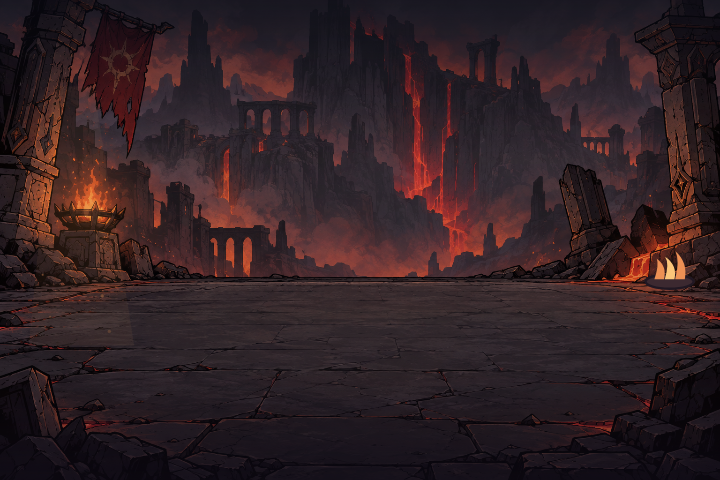
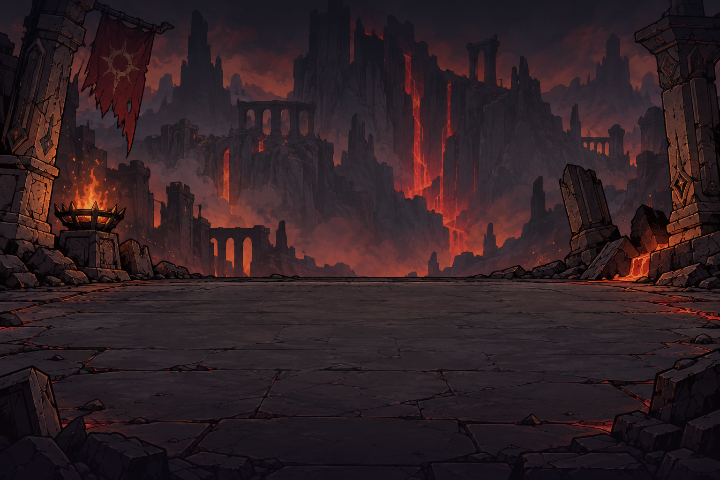
fix: 배경 추가 조명과 움직이는 소품 제거

Changed region(s): [[0.0611, 0.4062, 0.1833, 0.5625], [0.8861, 0.5312, 0.9778, 0.625]]

diff --git a/arena-environment.js b/arena-environment.js
@@ -1,87 +1,18 @@
-/* 배경 시간은 전투 시계와 함께 흐르고, 주변 소품만 작은 진폭으로 움직입니다. */
+/* 페이즈별 정적 원화와 배경 전환만 렌더링합니다. */
 const ARENA_THEMES = [
-  {id:'meadow',name:'황혼의 초원',light:'#ffd18a',accent:'#82dcb6',kind:'leaves',left:[.135,.28],right:[.94,.46]},
-  {id:'mine',name:'잿빛 폐광',light:'#ffbd72',accent:'#8fc8f1',kind:'dust',left:[.115,.30],right:[.93,.43]},
-  {id:'ruins',name:'화산 유적',light:'#ff9d52',accent:'#fa7246',kind:'embers',left:[.12,.44],right:[.93,.55]},
-  {id:'citadel',name:'화염 성채',light:'#ffc16c',accent:'#fb8345',kind:'embers',left:[.09,.385],right:[.92,.38]},
-  {id:'void',name:'공허의 경계',light:'#bca1ff',accent:'#79d9eb',kind:'motes',left:[.07,.35],right:[.945,.42]}
+  {id:'meadow',name:'황혼의 초원'},
+  {id:'mine',name:'잿빛 폐광'},
+  {id:'ruins',name:'화산 유적'},
+  {id:'citadel',name:'화염 성채'},
+  {id:'void',name:'공허의 경계'}
 ];
 function getArenaTheme(stage) {
   const index=Math.max(0,Math.ceil(Math.max(1,Number(stage)||1)/5)-1);
   return ARENA_THEMES[Math.min(4,index)];
 }
-function arenaGlow(ctx,x,y,r,color,alpha) {
-  ctx.save();ctx.globalAlpha*=alpha;
-  const gradient=ctx.createRadialGradient(x,y,0,x,y,r);
-  gradient.addColorStop(0,color);gradient.addColorStop(.25,color+'a0');gradient.addColorStop(1,color+'00');
-  ctx.fillStyle=gradient;ctx.fillRect(x-r,y-r,r*2,r*2);ctx.restore();
-}
-function drawArenaAmbient(ctx,width,height,theme,time,reduced=false,reaction=0) {
-  const t=reduced?0:time,unit=Math.min(width,height)/600;
-  const sway=Math.sin(t*.73)*.035;
-  const flicker=.76+Math.sin(t*2.3)*.09+Math.sin(t*5.7+1.2)*.035;
-  const left={x:width*theme.left[0],y:height*theme.left[1]},right={x:width*theme.right[0],y:height*theme.right[1]};
-  arenaGlow(ctx,left.x,left.y,110*unit,theme.light,.19*flicker+reaction*.1);
-  arenaGlow(ctx,right.x,right.y,95*unit,theme.accent,.12*(.9+Math.sin(t*1.2+.8)*.1));
-  // 넓은 빛기둥은 가장자리에서만 드리워 중앙 시전·체력 신호를 가리지 않습니다.
-  ctx.save();ctx.globalAlpha*=.055;ctx.fillStyle=theme.light;
-  ctx.beginPath();ctx.moveTo(width*.075,height*.18);ctx.lineTo(width*.13,height*.18);
-  ctx.lineTo(width*(.18+sway*.2),height*.72);ctx.lineTo(width*.04,height*.72);ctx.closePath();ctx.fill();ctx.restore();
-  // 원화 속 광원의 위치에 반짝임을 겹칩니다. 별도 등불 몸체를 중복 배치하지 않습니다.
-  ctx.save();ctx.translate(left.x,left.y);ctx.scale(unit,unit);
-  ctx.globalAlpha*=.23*flicker+reaction*.15;ctx.fillStyle=theme.light;
-  ctx.beginPath();ctx.ellipse(0,-2,4+Math.sin(t*3.1)*.5,8+Math.sin(t*4.7)*1.4,sway,0,Math.PI*2);ctx.fill();ctx.restore();
-  ctx.save();ctx.translate(right.x,height*.57);ctx.scale(unit,unit);
-  ctx.strokeStyle='#201722';ctx.lineWidth=3;
-  if(theme.id==='meadow') {
-    for(let i=0;i<4;i++) {
-      const angle=Math.sin(t*.65+i*.8)*.08;
-      ctx.save();ctx.translate((i-1.5)*12,12);ctx.rotate(angle);
-      ctx.strokeStyle='#536a55';ctx.beginPath();ctx.moveTo(0,0);ctx.quadraticCurveTo(7,-16,2,-31-i%2*8);ctx.stroke();
-      ctx.fillStyle=theme.accent;ctx.beginPath();ctx.ellipse(3,-32-i%2*8,6,4,0,0,Math.PI*2);ctx.fill();ctx.restore();
-    }
-  } else if(theme.id==='mine') {
-    // 수정는 부유시키지 않고 접지한 채 내부 조명만 호흡합니다.
-    for(let i=0;i<3;i++) {
-      ctx.fillStyle=i%2?'#698eac':'#96c4d4';ctx.beginPath();
-      const x=(i-1)*16;ctx.moveTo(x-10,13);ctx.lineTo(x-5,-18-i%2*16);ctx.lineTo(x+4,-25-i%2*12);ctx.lineTo(x+10,13);ctx.closePath();ctx.fill();ctx.stroke();
-    }
-    ctx.save();ctx.translate(-13,-85);ctx.rotate(Math.sin(t*.38)*.08);
-    ctx.strokeStyle='#85705d';ctx.lineWidth=6;ctx.beginPath();ctx.arc(0,0,13,0,Math.PI*2);ctx.stroke();
-    for(let i=0;i<6;i++){ctx.rotate(Math.PI/3);ctx.beginPath();ctx.moveTo(0,8);ctx.lineTo(0,19);ctx.stroke();}ctx.restore();
-  } else if(theme.id==='void') {
-    for(let i=0;i<3;i++) {
-      ctx.save();ctx.translate((i-1)*19,-18+Math.sin(t*.7+i*1.8)*6);ctx.rotate(Math.sin(t*.5+i)*.07);
-      ctx.fillStyle='#5d5179';ctx.beginPath();ctx.moveTo(-9,0);ctx.lineTo(-5,-18);ctx.lineTo(8,-13);ctx.lineTo(11,4);ctx.lineTo(0,11);ctx.closePath();ctx.fill();ctx.stroke();ctx.restore();
-    }
-  } else {
-    ctx.fillStyle='#3c2930';ctx.beginPath();ctx.ellipse(0,10,30,9,0,0,Math.PI*2);ctx.fill();ctx.stroke();
-    for(let i=0;i<3;i++) {
-      const h=23+Math.sin(t*2.8+i*1.7)*5;
-      ctx.fillStyle=i%2?'#fbc57a':'#ed9054';ctx.beginPath();ctx.moveTo(-19+i*13,7);
-      ctx.quadraticCurveTo(-13+i*13,-h*.6,-16+i*13+Math.sin(t*2.1+i)*3,-h);
-      ctx.quadraticCurveTo(-3+i*13,-h*.5,-7+i*13,7);ctx.closePath();ctx.fill();
-    }
-  }
-  ctx.restore();
-  if(reduced) return;
-  // 고정 개수의 주변 입자: 프레임마다 생성하지 않아 누적·시간당 증가가 없습니다.
-  const count=theme.id==='meadow'?12:18;
-  for(let i=0;i<count;i++) {
-    const cycle=(t*(.045+i%3*.008)+i*.137)%1;
-    const ease=.5-.5*Math.cos(cycle*Math.PI);
-    const x=width*(i%2? .85+Math.sin(t*.23+i)*.055 : .105+Math.sin(t*.27+i)*.055);
-    const y=height*(.72-ease*.35);
-    const alpha=Math.sin(cycle*Math.PI)*.32;
-    ctx.save();ctx.globalAlpha*=alpha;ctx.fillStyle=i%2?theme.accent:theme.light;
-    if(theme.kind==='leaves') {ctx.translate(x,y);ctx.rotate(Math.sin(t*.6+i));ctx.beginPath();ctx.ellipse(0,0,3*unit,1.4*unit,0,0,Math.PI*2);ctx.fill();}
-    else {ctx.beginPath();ctx.arc(x,y,(i%3+1)*.7*unit,0,Math.PI*2);ctx.fill();}
-    ctx.restore();
-  }
-}
 function createArenaEnvironment(canvas,arena,ImageType=Image) {
   const ctx=canvas.getContext('2d'),images={};
-  let theme=null,previous=null,time=0,fade=1,dirty=true,reducedLast=false,reaction=0;
+  let theme=null,previous=null,fade=1,dirty=true,reducedLast=false;
   function load(id) {
     if(images[id])return images[id];
     const image=new ImageType();images[id]=image;
@@ -91,7 +22,7 @@ function createArenaEnvironment(canvas,arena,ImageType=Image) {
   function setStage(stage) {
     const next=getArenaTheme(stage);
     if(next===theme)return;
-    previous=theme;theme=next;load(theme.id);fade=previous?0:1;reaction=0;dirty=true;
+    previous=theme;theme=next;load(theme.id);fade=previous?0:1;dirty=true;
     arena.dataset.environment=theme.id;
     const index=ARENA_THEMES.indexOf(theme);if(index<4)load(ARENA_THEMES[index+1].id);
   }
@@ -110,14 +41,16 @@ function createArenaEnvironment(canvas,arena,ImageType=Image) {
     const shade=ctx.createLinearGradient(0,0,0,canvas.height);
     shade.addColorStop(0,'#090b16a0');shade.addColorStop(.32,'#090b1610');shade.addColorStop(.78,'#0d0a1630');shade.addColorStop(1,'#0d0a16b0');
     ctx.fillStyle=shade;ctx.fillRect(0,0,canvas.width,canvas.height);
-    drawArenaAmbient(ctx,canvas.width,canvas.height,value,time,reducedLast,reaction);ctx.restore();
+    ctx.restore();
   }
   function update(dt,paused=false,reduced=false) {
     if(!theme)return;
     resize();
     if(reduced!==reducedLast){reducedLast=reduced;dirty=true;}
-    if(!paused&&!reduced) {const step=Math.max(0,Math.min(.1,dt));time+=step;if(images[theme.id].complete)fade=Math.min(1,fade+step/.9);reaction=Math.max(0,reaction-step*1.8);dirty=true;}
-    if(reduced) {fade=1;reaction=0;}
+    if(!paused&&!reduced&&fade<1&&images[theme.id].complete) {
+      const step=Math.max(0,Math.min(.1,dt));fade=Math.min(1,fade+step/.9);dirty=true;
+    }
+    if(reduced) {fade=1;}
     if(!dirty)return;
     ctx.clearRect(0,0,canvas.width,canvas.height);
     const ready=images[theme.id].complete&&images[theme.id].naturalWidth;
@@ -126,13 +59,7 @@ function createArenaEnvironment(canvas,arena,ImageType=Image) {
     if(!previous||ready)layer(theme,previous?eased:1);
     dirty=false;
   }
-  function react(x,y,paused=false,reduced=false) {
-    if(paused||reduced||!theme)return false;
-    const distance=Math.hypot(x/canvas.width-theme.left[0],y/canvas.height-theme.left[1]);
-    if(distance>.065)return false;
-    reaction=1;dirty=true;return true;
-  }
-  return {setStage,resize,update,react,snapshot:()=>({theme:theme&&theme.id,time,fade,reaction,images:Object.keys(images).length})};
+  return {setStage,resize,update,snapshot:()=>({theme:theme&&theme.id,fade,images:Object.keys(images).length})};
 }
 let arenaEnvironment=null;
-if(typeof module!=='undefined')module.exports={ARENA_THEMES,getArenaTheme,drawArenaAmbient,createArenaEnvironment};
+if(typeof module!=='undefined')module.exports={ARENA_THEMES,getArenaTheme,createArenaEnvironment};

diff --git a/index.html b/index.html
@@ -8,7 +8,7 @@
   <meta name="theme-color" content="#0b0e14" />
   <title>DPS: Fire Mage</title>
   <link rel="stylesheet" href="styles.css?v=meteor-art-5" />
-  <link rel="stylesheet" href="art.css?v=phase-scene-1" />
+  <link rel="stylesheet" href="art.css?v=phase-scene-2" />
 </head>
 <body>
   <!-- 간소화된 상단 상태바 -->
@@ -422,7 +422,7 @@
   <script src="comic-assets.js?v=meteor-art-5"></script>
   <script src="monster-motion.js?v=comic-ui-2"></script>
   <script src="skill-tooltips.js?v=2"></script>
-  <script src="arena-environment.js?v=phase-scene-1"></script>
-  <script src="game.js?v=phase-scene-1"></script>
+  <script src="arena-environment.js?v=phase-scene-2"></script>
+  <script src="game.js?v=phase-scene-2"></script>
 </body>
 </html>

diff --git a/game.js b/game.js
@@ -5335,12 +5335,6 @@ window.addEventListener('DOMContentLoaded', () => {
   const arena = document.getElementById('combat-arena');
   if (environmentCanvas) {
     arenaEnvironment = createArenaEnvironment(environmentCanvas, arena);
-    arena.addEventListener('pointerdown', (event) => {
-      if (event.target.closest('button, input, .caster-avatar, .dummy-avatar')) return;
-      const rect = arena.getBoundingClientRect();
-      const reduced = typeof matchMedia === 'function' && matchMedia('(prefers-reduced-motion: reduce)').matches;
-      arenaEnvironment.react(event.clientX - rect.left, event.clientY - rect.top, state.isPaused, reduced);
-    });
   }
   checkAndTriggerUnfolds(true);
   updateFlameEvolutionUI(true);

diff --git a/docs/2026-10-04-arena-environments.md b/docs/2026-10-04-arena-environments.md
@@ -1,4 +1,8 @@
-# 페이즈별 살아 있는 전장
+# 페이즈별 전장
+
+## 후속 수정: 추가 효과 제거
+
+사용자 요청에 따라 추가 조명·빛기둥·반짝임·움직이는 꽃/톱니/불길/파편·주변 입자·광원 클릭 반응을 제거했습니다. 페이즈별 원화와 전환, 가독성을 위한 정적 암부만 유지합니다. 전환 완료 후에는 매 프레임 배경을 다시 그리지 않습니다. 미리보기 이미지도 현재 정적 배경으로 갱신했습니다. 배경 선택·전환·정적 유지 테스트 및 구문 검사가 통과했습니다. 아래는 최초 구현의 참고자료와 생성 기록입니다.
 
 ## 적용
 
